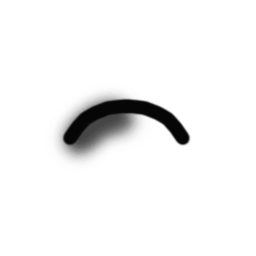
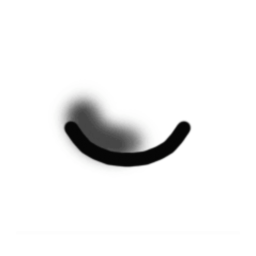
updated nose

Changed region(s): [[0.2188, 0.3438, 0.75, 0.6562]]

diff --git a/src/Components/Core/Domain/AvatarModels/AvatarFaceUVTexture.ts b/src/Components/Core/Domain/AvatarModels/AvatarFaceUVTexture.ts
@@ -60,29 +60,26 @@ export const AvatarEyeTexture: AvatarUVOffset[] = [
 ];
 
 export const AvatarNoseTexture: AvatarUVOffset[] = [
-  { id: 0, name: "Nose_1", uOffset: 0, vOffset: -0.232 },
-  { id: 1, name: "Nose_2", uOffset: 0.09, vOffset: -0.234 },
-  { id: 2, name: "Nose_3", uOffset: 0.18, vOffset: -0.234 },
+  { id: 0, name: "Nose_1", uOffset: 0, vOffset: 0 },
+  { id: 1, name: "Nose_2", uOffset: 0.1665, vOffset: 0 },
+  { id: 2, name: "Nose_3", uOffset: 0.333, vOffset: 0 },
+  { id: 3, name: "Nose_4", uOffset: 0.4995, vOffset: 0 },
+  { id: 4, name: "Nose_5", uOffset: 0.666, vOffset: 0 },
+  { id: 5, name: "Nose_6", uOffset: 0.8325, vOffset: 0 },
 
-  { id: 3, name: "Nose_4", uOffset: 0, vOffset: -0.178 },
-  { id: 4, name: "Nose_5", uOffset: 0.09, vOffset: -0.178 },
-  { id: 5, name: "Nose_6", uOffset: 0.18, vOffset: -0.178 },
+  { id: 6, name: "Nose_7", uOffset: 0, vOffset: 0.249 },
+  { id: 7, name: "Nose_8", uOffset: 0.1665, vOffset: 0.249 },
+  { id: 8, name: "Nose_9", uOffset: 0.333, vOffset: 0.249 },
+  { id: 9, name: "Nose_10", uOffset: 0.4995, vOffset: 0.249 },
+  { id: 10, name: "Nose_11", uOffset: 0.666, vOffset: 0.249 },
+  { id: 11, name: "Nose_12", uOffset: 0.8325, vOffset: 0.249 },
 
-  { id: 6, name: "Nose_7", uOffset: 0, vOffset: -0.135 },
-  { id: 7, name: "Nose_8", uOffset: 0.09, vOffset: -0.135 },
-  { id: 8, name: "Nose_9", uOffset: 0.18, vOffset: -0.135 },
-
-  { id: 9, name: "Nose_10", uOffset: 0, vOffset: -0.085 },
-  { id: 10, name: "Nose_11", uOffset: 0.09, vOffset: -0.085 },
-  { id: 11, name: "Nose_12", uOffset: 0.18, vOffset: -0.085 },
-
-  { id: 12, name: "Nose_13", uOffset: 0, vOffset: -0.04 },
-  { id: 13, name: "Nose_14", uOffset: 0.09, vOffset: -0.04 },
-  { id: 14, name: "Nose_15", uOffset: 0.18, vOffset: -0.04 },
-
-  { id: 15, name: "Nose_16", uOffset: 0, vOffset: 0 },
-  { id: 16, name: "Nose_17", uOffset: 0.09, vOffset: 0 },
-  { id: 17, name: "Nose_18", uOffset: 0.18, vOffset: 0 },
+  { id: 12, name: "Nose_13", uOffset: 0, vOffset: 0.498 },
+  { id: 13, name: "Nose_14", uOffset: 0.1665, vOffset: 0.498 },
+  { id: 14, name: "Nose_15", uOffset: 0.333, vOffset: 0.498 },
+  { id: 15, name: "Nose_16", uOffset: 0.4995, vOffset: 0.498 },
+  { id: 16, name: "Nose_17", uOffset: 0.666, vOffset: 0.498 },
+  { id: 17, name: "Nose_18", uOffset: 0.8325, vOffset: 0.498 },
 ];
 
 export const AvatarMouthTexture: AvatarUVOffset[] = [
